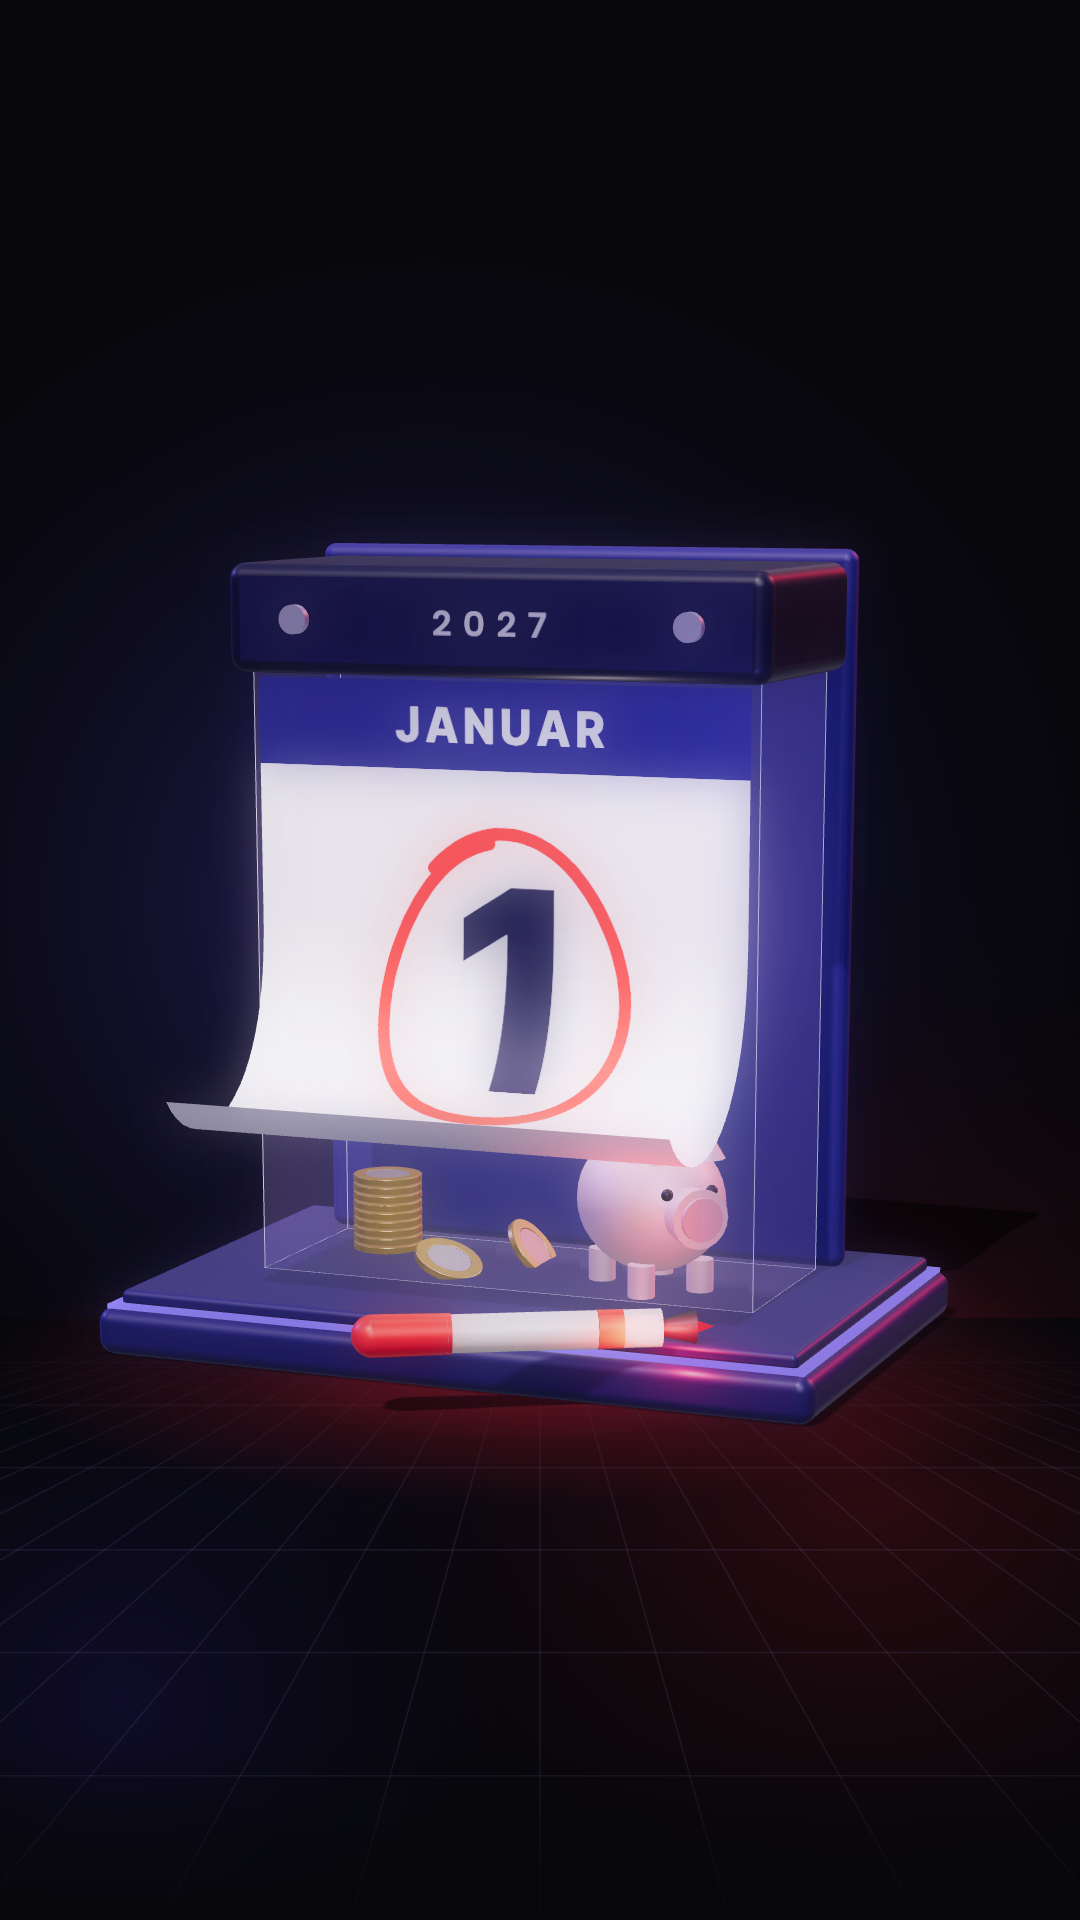
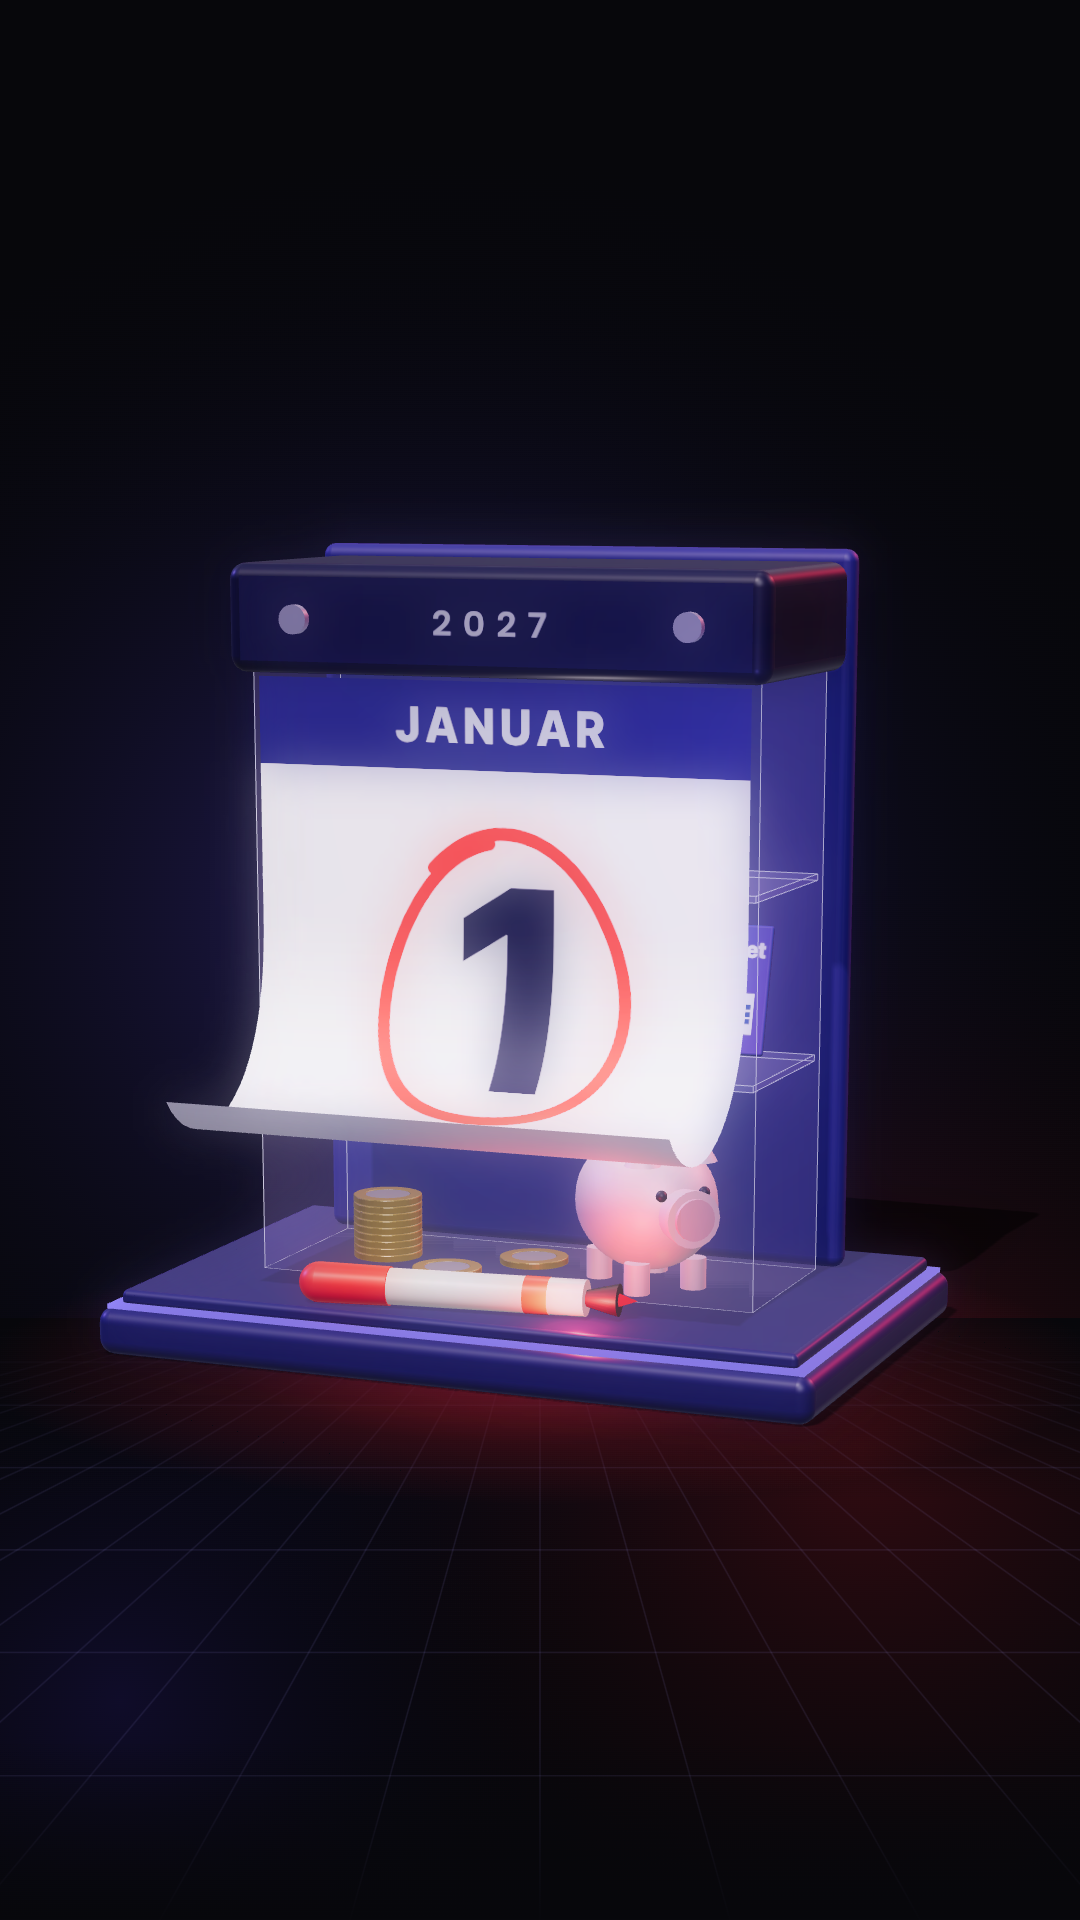
2027-Cover: Fehler behoben (nichts schwebt, keine Überschneidungen, passt in den 3:4-Ausschnitt)
Claude-Session: https://claude.ai/code/session_01JQEQeouhfuAX8JpSfuj7SD

Changed region(s): [[0.275, 0.5938, 0.7333, 0.75], [0.6722, 0.4375, 0.7639, 0.5938]]

diff --git a/jahr2027/cover_clean.html b/jahr2027/cover_clean.html
@@ -20,7 +20,7 @@ import {RoundedBoxGeometry} from 'three/addons/geometries/RoundedBoxGeometry.js'
 await Promise.all(['600 40px Poppins','800 96px "Inter Tight"'].map(f=>document.fonts.load(f)));
 const W=1080,H=1920;const Q=new URLSearchParams(location.search);const V=+(Q.get('v')||1);
 const bg=document.getElementById('bg').getContext('2d'),fg=document.getElementById('fg').getContext('2d');
-const DEF={1:{cy:1330,el:14,ry:-0.38,s:1.12},2:{cy:1330,el:14,ry:-0.38,s:1.12},3:{cy:1360,el:14,ry:-0.34,s:1.05}}[V];
+const DEF={1:{cy:1450,el:14,ry:-0.38,s:1.12},2:{cy:1330,el:14,ry:-0.38,s:1.12},3:{cy:1360,el:14,ry:-0.34,s:1.05}}[V];
 const CX=+(Q.get('cx')||540),CY=+(Q.get('cy')||DEF.cy);
 // ---------- background (same recipe as the other clean covers) ----------
 {bg.fillStyle='#07070B';bg.fillRect(0,0,W,H);
@@ -76,24 +76,32 @@ RB(C,PW+0.08,0.26,PD+0.14,DARK,0,BY+PH+0.12,0.0,0.04);
 for(const s of [-1,1])add(C,new THREE.CylinderGeometry(0.035,0.035,0.03,24).rotateX(Math.PI/2),METAL,s*0.5,BY+PH+0.12,PD/2+0.08);
 // glass page block: the edges glow, the inside is visible
 const gb=new THREE.BoxGeometry(PW,PH,PD);glass(C,gb,0,BY+PH/2,0,.12);edges(C,gb,0,BY+PH/2,0);
-// inside: what 2027 changes – coins, a ticket, a piggy bank, a bundle of notes, a driving licence card
-const IN=new THREE.Group();IN.position.set(0,BY,0);C.add(IN);
-for(let i=0;i<9;i++)coin(IN,-0.42,0.03+i*0.022,0.0,-Math.PI/2,0,i);coin(IN,-0.2,0.03,0.12,-Math.PI/2+0.2,0.4,1);coin(IN,-0.05,0.03,-0.08,-Math.PI/2,0.9,2);
+// inside: what 2027 changes. Nothing floats: coins and the piggy bank stand on the floor, the cards and the bundle stand on two glass shelves and lean against the back pane
+const IN=new THREE.Group();IN.position.set(0,BY,0);C.add(IN);const ZB=-PD/2+0.004,S1=0.55,S2=1.0;
+for(const sy of [S1,S2]){const g=new THREE.BoxGeometry(PW-0.02,0.016,PD-0.02);glass(IN,g,0,sy-0.008,0,.16);edges(IN,g,0,sy-0.008,0);}
+// lean a slab (height h along its local y, thickness t along local z) back against the back pane, standing on height y0
+const leanSlab=(o,y0,h,t,a)=>{o.rotation.x=-a;o.position.y=y0+h/2*Math.cos(a)+t/2*Math.sin(a);o.position.z=ZB+t/2*Math.cos(a)+h/2*Math.sin(a);};
+const CT=0.018;for(let i=0;i<9;i++)coin(IN,-0.42,0.009+i*CT,0.0,-Math.PI/2,0,i*0.7);coin(IN,-0.2,0.009,0.13,-Math.PI/2,0,1);coin(IN,-0.04,0.009,-0.06,-Math.PI/2,0,2);
 {const T=canvasTex(512,320,(g,w,h)=>{const gr=g.createLinearGradient(0,0,w,h);gr.addColorStop(0,'#1f3a8a');gr.addColorStop(1,'#3f2a9a');g.fillStyle=gr;g.fillRect(0,0,w,h);g.fillStyle='#fff';g.font='800 54px "Inter Tight"';g.fillText('Deutschlandticket',30,80);
    g.font='800 78px "Inter Tight"';g.fillText('66,80 €',30,270);g.fillStyle='#fff';g.fillRect(380,170,100,100);g.fillStyle='#1f3a8a';for(let i=0;i<5;i++)for(let k=0;k<5;k++)if((i*7+k*3)%4)g.fillRect(388+i*18,178+k*18,14,14);});
- const t=new THREE.Mesh(new RoundedBoxGeometry(0.42,0.26,0.012,2,0.01),[M(0x2a3a8a),M(0x2a3a8a),M(0x2a3a8a),M(0x2a3a8a),new THREE.MeshStandardMaterial({map:T,roughness:.4}),M(0x2a3a8a)]);t.position.set(0.2,0.66,0.05);t.rotation.set(-0.05,-0.15,0.1);t.scale.setScalar(1.25);IN.add(t);}
-{const P=new THREE.Group();P.position.set(0.32,0.0,0.06);P.rotation.y=-0.75;P.scale.setScalar(1.35);IN.add(P);const pk=M(0xf3c6d4,{roughness:.5});
+ const sc=1.25,t=new THREE.Mesh(new RoundedBoxGeometry(0.42*sc,0.26*sc,0.012*sc,2,0.01),[M(0x2a3a8a),M(0x2a3a8a),M(0x2a3a8a),M(0x2a3a8a),new THREE.MeshStandardMaterial({map:T,roughness:.4}),M(0x2a3a8a)]);
+ t.castShadow=true;t.position.x=0.27;leanSlab(t,S1,0.26*sc,0.012*sc,0.26);IN.add(t);}
+{const P=new THREE.Group();P.position.set(0.3,0.0,0.04);P.rotation.y=-0.75;P.scale.setScalar(1.3);IN.add(P);const pk=M(0xf3c6d4,{roughness:.5});
  const b=add(P,new THREE.SphereGeometry(0.13,28,20),pk,0,0.16,0);b.scale.set(1.25,1,1);add(P,new THREE.CylinderGeometry(0.05,0.055,0.05,20).rotateZ(Math.PI/2),pk,0.17,0.16,0);
  add(P,new THREE.CylinderGeometry(0.04,0.04,0.012,20).rotateZ(Math.PI/2),M(0xe2a3b8),0.197,0.16,0);for(const [x,z] of [[0.08,0.06],[0.08,-0.06],[-0.08,0.06],[-0.08,-0.06]])add(P,new THREE.CylinderGeometry(0.025,0.025,0.06,12),pk,x,0.03,z);
  for(const s of [-1,1])add(P,new THREE.ConeGeometry(0.035,0.06,12),pk,0.1,0.28,s*0.06);add(P,new THREE.BoxGeometry(0.07,0.005,0.012),DARK,0,0.29,0);
  for(const s of [-1,1])add(P,new THREE.SphereGeometry(0.011,10,8),DARK,0.15,0.2,s*0.045);}
-{const B=new THREE.Group();B.position.set(-0.2,1.08,0.02);B.rotation.set(0.35,0.35,-0.12);B.scale.setScalar(1.2);IN.add(B);const nt=canvasTex(512,256,(g,w,h)=>{g.fillStyle='#bfe3c4';g.fillRect(0,0,w,h);g.fillStyle='#7fb48a';g.font='800 90px "Inter Tight"';g.fillText('100',20,100);g.strokeStyle='#7fb48a';g.lineWidth=6;g.beginPath();g.arc(350,128,70,0,7);g.stroke();});
- RB(B,0.44,0.09,0.24,new THREE.MeshStandardMaterial({map:nt,roughness:.6}),0,0,0,0.01);RB(B,0.08,0.095,0.245,M(0xece3cc),0,0,0,0.005);
- // the red marker cross on the bundle
- for(const s of [-1,1]){const c=new THREE.Mesh(new THREE.BoxGeometry(0.36,0.006,0.022),REDS);c.position.y=0.048;c.rotation.y=s*0.55;B.add(c);}}
+{// the bundle of notes stands on its long edge on the upper shelf, the red marker cross on its face
+ const nt=canvasTex(512,256,(g,w,h)=>{g.fillStyle='#bfe3c4';g.fillRect(0,0,w,h);g.fillStyle='#7fb48a';g.font='800 90px "Inter Tight"';g.fillText('100',20,100);g.strokeStyle='#7fb48a';g.lineWidth=6;g.beginPath();g.arc(350,128,70,0,7);g.stroke();});
+ const sc=1.2,BL=0.44*sc,BT=0.09*sc,BD=0.24*sc;const B=new THREE.Group();IN.add(B);
+ RB(B,BL,BT,BD,new THREE.MeshStandardMaterial({map:nt,roughness:.6}),0,0,0,0.01);RB(B,0.08*sc,BT+0.004,BD+0.004,M(0xece3cc),0,0,0,0.005);
+ const dx=BL-0.07,dz=BD-0.06,ang=Math.atan2(dz,dx),len=Math.hypot(dx,dz);for(const s of [-1,1]){const c=new THREE.Mesh(new THREE.BoxGeometry(len,0.006,0.024),REDS);c.position.y=BT/2+0.004;c.rotation.y=s*ang;B.add(c);}
+ // face (+y) towards the camera, tipped back against the back pane
+ const a=0.32;B.rotation.x=Math.PI/2-a;B.position.set(-0.14,S2+BD/2*Math.cos(a)+BT/2*Math.sin(a),ZB+BT/2*Math.cos(a)+BD/2*Math.sin(a));}
 {const L=canvasTex(512,320,(g,w,h)=>{g.fillStyle='#f3d9e6';g.fillRect(0,0,w,h);g.fillStyle='#1f3a8a';g.fillRect(0,0,w,70);g.fillStyle='#fff';g.font='800 46px "Inter Tight"';g.fillText('FÜHRERSCHEIN',24,52);
    g.fillStyle='#9aa0b8';g.fillRect(30,100,130,170);g.fillStyle='#55596b';for(let i=0;i<5;i++)g.fillRect(190,110+i*34,240-i*20,14);});
- const l=new THREE.Mesh(new RoundedBoxGeometry(0.36,0.23,0.01,2,0.01),[M(0xf3d9e6),M(0xf3d9e6),M(0xf3d9e6),M(0xf3d9e6),new THREE.MeshStandardMaterial({map:L,roughness:.4}),M(0xf3d9e6)]);l.position.set(-0.28,0.5,0.12);l.rotation.set(0.0,0.25,-0.18);l.scale.setScalar(1.15);IN.add(l);}
+ const sc=1.15,l=new THREE.Mesh(new RoundedBoxGeometry(0.36*sc,0.23*sc,0.01*sc,2,0.01),[M(0xf3d9e6),M(0xf3d9e6),M(0xf3d9e6),M(0xf3d9e6),new THREE.MeshStandardMaterial({map:L,roughness:.4}),M(0xf3d9e6)]);
+ l.castShadow=true;l.position.x=-0.33;leanSlab(l,S1,0.23*sc,0.01*sc,0.3);l.position.z+=0.06;l.rotation.x=-0.3;IN.add(l);}
 {const p=new THREE.PointLight(0xfff0d8,0.9,1.8,2);p.position.set(0,BY+0.8,0.1);C.add(p);}
 // the front page: "2027" with the red marker ring; v1 tears off at the top corner
 const pageT=canvasTex(1024,1180,(g,w,h)=>{g.fillStyle='#ece6ff';g.fillRect(0,0,w,h);g.fillStyle='#2b2778';g.fillRect(0,0,w,170);g.fillStyle='#f4f1ff';g.font='800 92px "Inter Tight"';g.textAlign='center';g.letterSpacing='12px';g.fillText('JANUAR',w/2+6,118);g.letterSpacing='0px';
@@ -111,15 +119,20 @@ function PAGES(){const pw=PW-0.04,ph=PH-0.04;
   // v1/v3: the page has just been torn off and flies up to the right; a jagged strip of paper is left under the header
   const scrap=canvasTex(1024,128,(g,w,h)=>{g.fillStyle='#ece6ff';g.beginPath();g.moveTo(0,0);g.lineTo(w,0);let x=w;while(x>0){x-=18+Math.random()*26;g.lineTo(Math.max(0,x),40+Math.random()*60);}g.lineTo(0,50);g.closePath();g.fill();});
   {const m=new THREE.Mesh(new THREE.PlaneGeometry(pw,0.12),new THREE.MeshStandardMaterial({map:scrap,transparent:true,roughness:.6,side:THREE.DoubleSide}));m.position.set(0,BY+PH-0.06,PD/2+0.012);C.add(m);}
-  const G=pageMesh(pageGeo(pw,ph,v=>0.55*Math.sin(v*Math.PI)*0.6+v*0.5),pageT);G.scale.setScalar(0.62);G.position.set(0.98,BY+PH+0.32,0.55);G.rotation.set(-0.35,-0.55,-0.38);C.add(G);}
+  const torn=(()=>{const c=document.createElement('canvas');c.width=pageT.image.width;c.height=pageT.image.height;const g=c.getContext('2d');g.drawImage(pageT.image,0,0);
+    g.globalCompositeOperation='destination-out';g.beginPath();g.moveTo(0,0);let x=0;while(x<c.width){x+=16+Math.random()*24;g.lineTo(Math.min(c.width,x),8+Math.random()*26);}g.lineTo(c.width,0);g.closePath();g.fill();
+    const t=new THREE.CanvasTexture(c);t.colorSpace=THREE.SRGBColorSpace;t.anisotropy=8;return t;})();
+  const G=pageMesh(pageGeo(pw,ph,v=>0.55*Math.sin(v*Math.PI)*0.6+v*0.5),torn);G.children.forEach(m=>{m.material.transparent=true;m.material.alphaTest=0.5;});
+  if(!G.children[1].material.map){G.children[1].material.alphaMap=null;}
+  G.scale.setScalar(0.56);G.position.set(1.02,BY+PH+0.74,0.5);G.rotation.set(-0.3,-0.6,-0.42);C.add(G);}
 PAGES();
 // v3: three more torn pages drift above the calendar
 if(V===3){const months=['FEBRUAR','JULI','DEZEMBER'],days=['1','10','31'];months.forEach((mn,i)=>{const T=canvasTex(512,590,(g,w,h)=>{g.fillStyle='#ece6ff';g.fillRect(0,0,w,h);g.fillStyle='#2b2778';g.fillRect(0,0,w,86);g.fillStyle='#f4f1ff';g.font='800 46px "Inter Tight"';g.textAlign='center';g.fillText(mn,w/2,60);
     g.fillStyle='#1d1a4a';g.font='800 280px "Inter Tight"';g.fillText(days[i],w/2,400);});const p=new THREE.Mesh(new THREE.PlaneGeometry(0.42,0.48,8,8),new THREE.MeshStandardMaterial({map:T,roughness:.55,side:THREE.DoubleSide}));
-  const pos=p.geometry.attributes.position;for(let k=0;k<pos.count;k++){const x=pos.getX(k);pos.setZ(k,0.12*Math.sin((x+0.21)/0.42*Math.PI)*(i%2?1:-1));}p.geometry.computeVertexNormals();
-  p.position.set([-0.85,-0.2,0.35][i],BY+PH+[0.45,0.95,0.95][i],[0.25,0.1,0.15][i]);p.rotation.set(-0.3+i*0.2,[0.5,-0.2,-0.6][i],[0.35,-0.15,-0.4][i]);p.castShadow=true;C.add(p);});}
+  const pos=p.geometry.attributes.position;for(let k=0;k<pos.count;k++){const x=pos.getX(k);pos.setZ(k,0.06*Math.sin((x+0.21)/0.42*Math.PI)*(i%2?1:-1));}p.geometry.computeVertexNormals();
+  p.position.set([-1.0,-0.38,0.2][i],BY+PH+[0.68,0.98,1.08][i],[0.25,0.1,0.05][i]);p.rotation.set(-0.3+i*0.2,[0.5,-0.2,-0.6][i],[0.35,-0.15,-0.4][i]);p.castShadow=true;C.add(p);});}
 // the red marker lying on the plinth in front
-{const Mk=new THREE.Group();Mk.position.set(0.55,0.2,0.62);Mk.rotation.set(0,0.5,Math.PI/2);C.add(Mk);const wh=M(0xeceae5,{roughness:.35});
+{const Mk=new THREE.Group();Mk.position.set(0.3,0.16+0.05,0.45);Mk.rotation.set(0,0.12,Math.PI/2);C.add(Mk);const wh=M(0xeceae5,{roughness:.35});
  add(Mk,new THREE.CylinderGeometry(0.045,0.045,0.5,28),wh,0,0.25,0);add(Mk,new THREE.CylinderGeometry(0.046,0.046,0.06,28),REDS,0,0.12,0);add(Mk,new THREE.CylinderGeometry(0.05,0.048,0.18,28),REDS,0,0.58,0);
  add(Mk,new THREE.SphereGeometry(0.05,24,12,0,Math.PI*2,0,Math.PI/2),REDS,0,0.67,0);add(Mk,new THREE.CylinderGeometry(0.02,0.04,0.08,20),M(0x2a2a30),0,-0.04,0);add(Mk,new THREE.ConeGeometry(0.018,0.05,16).rotateX(Math.PI),REDM,0,-0.1,0);
  const p=new THREE.PointLight(0xff2030,0.8,0.8,2);p.position.set(0,0.0,0.1);Mk.add(p);}

diff --git a/STATUS.md b/STATUS.md
@@ -123,7 +123,7 @@ Der Nutzer wollte neue Ideen ohne Diorama-Look und hat dieses Thema gewählt, da
 - Higgsfield-Guthaben war 0, deshalb ist alles selbst in 3D gebaut; Prompts für eine spätere Variante stehen im Drehbuch unter F.
 - Fertig am 19.11.2026: `Was_aendert_sich_2027_mit_Musik.mp4` und `_nur_Effekte.mp4` (77,0 s, −16 LUFS), Upload-Fassung mit Cover als erstem Standbild in `social/Was_aendert_sich_2027_Upload_mit_Cover.mp4`, Kontaktbogen `Kontaktbogen_Was_aendert_sich_2027.jpg`. Die ersten 248 Bilder wurden mit einer lebendigeren Hook-Kamera neu gerendert (`fr2`, Naht bei Bild 248 geprüft). Effekte liegen 5 bis 8 dB unter der Stimme.
 - Dritte Fassung (19.11.2026, Feedback mit sieben Screenshots): Nichts ragt mehr in den Tisch (geprüft für jedes Bild mit `node clipcheck.mjs 0 76`, Kollisionen von Bündel, Theke und Figuren mit `node collide.mjs 61 71`). Die Balken haben einen Sockel mit großem „2026/2027“, die Werte stehen auf den Balken. Die Lasche des Musterungsbriefs sitzt hinten, der Brief kommt davor heraus, die Adresse passt ins Fenster. Die Brutto-Zeile passt immer zum Stundenlohn. Statt der Figuren, die nach KI aussahen, gibt es zwei Holz-Spielfiguren (`mkMeeple` in `src/props.js`, `meepleAnim` in `src/main.js`), das Bündel rutscht über den Tisch statt zu schweben. Alle Effekte kommen aus der Soundza-Bibliothek (IDs in `SOUNDS.md`), Musik sowie Whoosh und Klicks des Nutzers bleiben. Das Video wurde komplett neu gerendert (`fr3`, dann nach `fr`).
-- Cover neu (Wunsch des Nutzers, 20.11.2026: „das Cover im Stil von meinen anderen“): `jahr2027/cover_clean.html` (Server Port 8777 im Ordner `jahr2027`, `node cover_clean.mjs out.png "?v=1"`), clean wie Geldautomat, Fernsehturm und Merz: kompakter Abreißkalender „2027“ in Lila und Violett auf einer Platte mit Lichtkante, gläserner Blattblock mit Blick ins Innere (Münzstapel, Deutschlandticket 66,80 €, Sparschwein, Führerschein, Geldbündel mit rotem Kreuz), roter Filzstift auf der Platte. `?v=1` das Januar-Blatt mit rotem Kringel fliegt gerade ab (als Thumbnail gesetzt), `?v=2` das Blatt rollt sich unten auf, `?v=3` wie 1 mit drei weiteren fliegenden Blättern. Vergleich: `jahr2027/social/Cover_2027_Varianten.jpg`. Das alte Cover (Kalender auf dem grauen Tisch) liegt in `social/cover_alt/`.
+- Cover neu (Wunsch des Nutzers, 20.11.2026: „das Cover im Stil von meinen anderen“): `jahr2027/cover_clean.html` (Server Port 8777 im Ordner `jahr2027`, `node cover_clean.mjs out.png "?v=1"`), clean wie Geldautomat, Fernsehturm und Merz: kompakter Abreißkalender „2027“ in Lila und Violett auf einer Platte mit Lichtkante, gläserner Blattblock mit Blick ins Innere (Münzstapel, Deutschlandticket 66,80 €, Sparschwein, Führerschein, Geldbündel mit rotem Kreuz), roter Filzstift auf der Platte. `?v=1` das Januar-Blatt mit rotem Kringel fliegt gerade ab (als Thumbnail gesetzt), `?v=2` das Blatt rollt sich unten auf, `?v=3` wie 1 mit drei weiteren fliegenden Blättern. Vergleich: `jahr2027/social/Cover_2027_Varianten.jpg`. Das alte Cover (Kalender auf dem grauen Tisch) liegt in `social/cover_alt/`. Danach auf Fehler geprüft und überarbeitet (Wunsch des Nutzers, 20.11.2026): Nichts schwebt mehr, Münzen liegen flach auf dem Boden, Führerschein und Deutschlandticket stehen auf einem gläsernen Regalboden und lehnen an der Rückwand, das Geldbündel steht auf einem zweiten Regalboden, das rote Kreuz bleibt auf dem Bündel, der Stift liegt ganz auf der Platte, das abgerissene Blatt (mit gerissener Oberkante) fliegt frei über der Kopfleiste und liegt komplett im 3:4-Ausschnitt.
 - Outro v8 (Wunsch des Nutzers, 20.11.2026: „Mach einfach nur, dass function. erscheint, 2 Sekunden, das ist mir alles zu schlecht“): Nach Stempel, roter Linie, rollendem Stift, Silvester-Feuerwerk und zehn Kreisen, die zum Punkt werden (alle verworfen), blendet das Bild nach dem letzten Satz in 0,3 s auf den dunklen Hintergrund ab, und in der Mitte erscheint ruhig das rote „function.“ (Poppins 500, 190 px) und bleibt stehen (`logoOutro()` in `src/main.js`, Canvas `#fw`). Danach (Wunsch des Nutzers: „Hintergrund bisschen heller sehen und der Punkt kommt nach“): Der Hintergrund wird nur auf etwa 60 % abgedunkelt, sodass Kalender und Objekte schwach sichtbar bleiben und ruhig stehen (die Objekte bleiben bis zum Ende in ihrer Übersichtsposition). „function“ blendet zuerst ein, der Punkt ploppt etwa eine halbe Sekunde später nach, dazu ein leiser Klick (`LO` in `src/main.js`). Video 75,6 s (2268 Bilder).
 - Überarbeitung am 19.11.2026 (Wunsch des Nutzers, nur zwei Szenen): Das Sparschwein (0:31–0:37) trabt mit Gelenkbeinen hinein und hinaus, drei Münzen fallen sichtbar in den Schlitz; der Führerschein (0:42–0:49) ist eine zweiseitige Karte, alt (2003, vergilbt) fliegt heran und dreht sich bei „umtauschen“ in den neuen EU-Führerschein. Eigene Kameras nur dort (`blendCam()`), dezente Schritte, Münzeinwürfe und Karten-Geräusch. Neu gerendert wurden nur die Bilder 918–1116, 1262–1484 und 2090–2240 (Übersicht zeigt neues Schwein und neue Karte); die Nähte sind geprüft (Abweichung 0).
 - Offen: Higgsfield (Virality Predictor, fotorealistisches Cover, alternativer Hook) erst, wenn der Nutzer Credits auflädt; Metricool-Entwürfe erst auf Wunsch.
